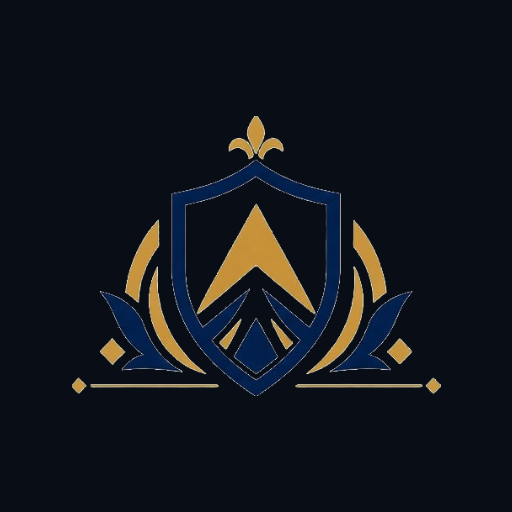
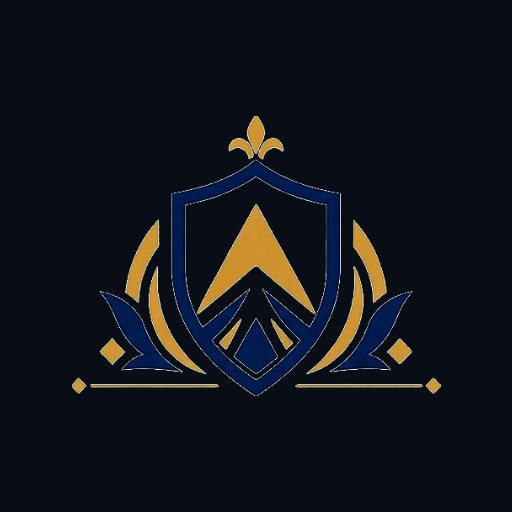
Weave crest navy through the UI as the second identity color
- Sharpen the crest asset (unsharp mask, slight contrast/saturation
  lift) and regenerate favicon and PWA icons from it
- Two-tone ambient backdrop: crest-navy orbs join the gold, navy band
  added to the desktop conic sweep
- Navy-tinted glass bodies for cards, gilt buttons, and the capsule nav
- New identity utilities: .plate-navy icon plates, .chip-navy label
  chips, .track-navy progress/segment tracks
- Applied across the app: hero Music Royalties chip, revenue stream and
  quick action icon plates, home stat tiles, tier Investment Dossier
  chip and seat-progress track, portal amount segmented track, vault
  Portfolio chip, header verification badge in crest navy with gold

Changed region(s): [[0.6562, 0.375, 0.6875, 0.5312]]

diff --git a/src/index.css b/src/index.css
@@ -113,7 +113,7 @@
     border-radius: 1.75rem;
     border: 1px solid transparent;
     background:
-      linear-gradient(180deg, rgba(32, 41, 62, 0.6), rgba(11, 17, 29, 0.72)) padding-box,
+      linear-gradient(180deg, rgba(30, 45, 76, 0.6), rgba(9, 16, 30, 0.74)) padding-box,
       linear-gradient(
           140deg,
           rgba(232, 194, 92, 0.85),
@@ -195,7 +195,7 @@
     border-radius: 0.8rem;
     border: 1.5px solid transparent;
     background:
-      linear-gradient(180deg, rgba(30, 39, 59, 0.88), rgba(9, 14, 24, 0.95)) padding-box,
+      linear-gradient(180deg, rgba(26, 41, 71, 0.88), rgba(7, 13, 25, 0.95)) padding-box,
       linear-gradient(
           115deg,
           #8a6a1e 0%,
@@ -288,7 +288,7 @@
     border-radius: 9999px;
     border: 1.5px solid transparent;
     background:
-      linear-gradient(180deg, rgba(18, 24, 39, 0.8), rgba(8, 12, 22, 0.88)) padding-box,
+      linear-gradient(180deg, rgba(16, 26, 48, 0.82), rgba(7, 12, 23, 0.9)) padding-box,
       linear-gradient(
           115deg,
           #8a6a1e 0%,
@@ -343,6 +343,33 @@
     box-shadow:
       inset 0 1px 0 rgba(246, 231, 180, 0.25),
       0 6px 16px -6px rgba(232, 194, 92, 0.4);
+  }
+
+  /* ── Crest navy identity ─────────────────────────────────────────
+     The logo's second color. Plates carry icons, chips carry labels,
+     tracks sit under gold progress fills. */
+  .plate-navy {
+    background: linear-gradient(160deg, rgba(36, 64, 111, 0.6), rgba(12, 26, 51, 0.92));
+    border: 1px solid rgba(232, 194, 92, 0.35);
+    box-shadow:
+      inset 0 1px 0 rgba(207, 224, 255, 0.18),
+      0 8px 18px -10px rgba(12, 26, 51, 0.9);
+  }
+  .chip-navy {
+    display: inline-flex;
+    align-items: center;
+    gap: 0.5rem;
+    padding: 0.35rem 0.85rem;
+    border-radius: 9999px;
+    font-size: 0.75rem;
+    border: 1px solid rgba(120, 158, 220, 0.4);
+    background: linear-gradient(160deg, rgba(36, 64, 111, 0.55), rgba(12, 26, 51, 0.9));
+    color: #cfe0ff;
+    box-shadow: inset 0 1px 0 rgba(207, 224, 255, 0.16);
+  }
+  .track-navy {
+    background: linear-gradient(180deg, rgba(12, 26, 51, 0.95), rgba(36, 64, 111, 0.45));
+    box-shadow: inset 0 1px 2px rgba(0, 0, 0, 0.6);
   }
 
   .chip {

diff --git a/src/components/Backdrop.tsx b/src/components/Backdrop.tsx
@@ -19,7 +19,7 @@ export function Backdrop() {
 
   return (
     <div aria-hidden className="pointer-events-none fixed inset-0 z-0 overflow-hidden">
-      <div className="absolute inset-0 bg-[radial-gradient(ellipse_at_top,_rgba(179,144,47,0.10),_transparent_55%)]" />
+      <div className="absolute inset-0 bg-[radial-gradient(ellipse_at_top,_rgba(179,144,47,0.1),_transparent_55%)]" />
 
       <motion.div
         className="absolute -left-40 top-10 h-[24rem] w-[24rem] rounded-full bg-[radial-gradient(circle,_rgba(201,162,39,0.18),_transparent_60%)] blur-2xl md:h-[34rem] md:w-[34rem] md:blur-3xl"
@@ -27,9 +27,14 @@ export function Backdrop() {
         transition={{ duration: 22, repeat: Infinity, ease: "easeInOut" }}
       />
       <motion.div
-        className="absolute -right-40 top-1/3 h-[22rem] w-[22rem] rounded-full bg-[radial-gradient(circle,_rgba(244,227,172,0.12),_transparent_60%)] blur-2xl md:h-[32rem] md:w-[32rem] md:blur-3xl"
+        className="absolute -right-40 top-1/3 h-[22rem] w-[22rem] rounded-full bg-[radial-gradient(circle,_rgba(36,64,111,0.28),_transparent_62%)] blur-2xl md:h-[32rem] md:w-[32rem] md:blur-3xl"
         animate={mobile ? undefined : { x: [0, -100, 0], y: [0, 60, 0] }}
         transition={{ duration: 26, repeat: Infinity, ease: "easeInOut" }}
+      />
+      <motion.div
+        className="absolute bottom-[-8rem] left-1/4 h-[20rem] w-[20rem] rounded-full bg-[radial-gradient(circle,_rgba(36,64,111,0.22),_transparent_60%)] blur-2xl md:h-[28rem] md:w-[28rem] md:blur-3xl"
+        animate={mobile ? undefined : { x: [0, 80, 0], y: [0, -50, 0] }}
+        transition={{ duration: 30, repeat: Infinity, ease: "easeInOut" }}
       />
 
       {!mobile && (
@@ -37,7 +42,7 @@ export function Backdrop() {
           className="absolute left-1/2 top-1/2 h-[60rem] w-[60rem] -translate-x-1/2 -translate-y-1/2 rounded-full opacity-[0.05]"
           style={{
             background:
-              "conic-gradient(from 0deg, transparent, #B3902F, transparent, #F4E3AC, transparent)",
+              "conic-gradient(from 0deg, transparent, #B3902F, transparent, #24406F, transparent, #F4E3AC, transparent)",
           }}
           animate={{ rotate: 360 }}
           transition={{ duration: 90, repeat: Infinity, ease: "linear" }}

diff --git a/src/routes/index.tsx b/src/routes/index.tsx
@@ -40,7 +40,7 @@ import { useBalancePulse } from "@/hooks/useBalancePulse";
 /** Small labelled figure used in the portfolio card. */
 function Stat({ label, value }: { label: string; value: number }) {
   return (
-    <div className="embossed min-w-0 rounded-xl border border-border/60 bg-black/30 p-3">
+    <div className="track-navy min-w-0 rounded-xl border border-[#24406f]/45 p-3">
       <p className="text-[10px] uppercase tracking-wider text-muted-foreground">{label}</p>
       <p className="font-numeric mt-1 truncate text-lg">${value.toLocaleString()}</p>
     </div>
@@ -86,7 +86,7 @@ export default function Home() {
                       <ShieldCheck className="h-3.5 w-3.5" strokeWidth={1.9} />
                       Private Placement
                     </span>
-                    <span className="chip">
+                    <span className="chip-navy uppercase tracking-widest">
                       <AudioLines className="h-3 w-3 text-primary" strokeWidth={1.9} />
                       Music Royalties
                     </span>
@@ -180,7 +180,7 @@ export default function Home() {
                     to={to}
                     className="group flex flex-col items-center gap-2 rounded-2xl border border-primary/25 bg-black/40 py-4 backdrop-blur-xl transition-all hover:border-primary/55 hover:bg-black/55"
                   >
-                    <span className="grid h-10 w-10 place-items-center rounded-xl border border-primary/30 bg-primary/10 text-primary transition-transform group-hover:scale-105">
+                    <span className="plate-navy grid h-10 w-10 place-items-center rounded-xl text-primary transition-transform group-hover:scale-105">
                       <Icon className="h-5 w-5" strokeWidth={1.8} />
                     </span>
                     <span className="text-xs font-semibold tracking-wide text-white/90">

diff --git a/src/routes/packages.tsx b/src/routes/packages.tsx
@@ -49,7 +49,7 @@ export default function Packages() {
         <main className="mx-auto max-w-2xl px-5 py-6">
           <header className="mb-6">
             <div className="gold-ribbon-hr mb-4 !w-24" />
-            <span className="chip">Investment Dossier</span>
+            <span className="chip-navy uppercase tracking-widest">Investment Dossier</span>
             <h1 className="mt-3 font-display text-4xl">
               Choose Your <em className="not-italic text-gradient-gold">Tier</em>
             </h1>
@@ -201,10 +201,7 @@ function SpotsBar({ pct, isFull }: { pct: number; isFull: boolean }) {
   const ref = useRef<HTMLDivElement>(null);
   const inView = useInView(ref, { once: true, margin: "-10% 0px" });
   return (
-    <div
-      ref={ref}
-      className="embossed relative mt-2 h-1.5 overflow-hidden rounded-full bg-black/40"
-    >
+    <div ref={ref} className="track-navy relative mt-2 h-1.5 overflow-hidden rounded-full">
       <motion.div
         className="h-full rounded-full"
         initial={{ width: 0 }}

diff --git a/src/components/RevenueStreams.tsx b/src/components/RevenueStreams.tsx
@@ -39,7 +39,7 @@ export function RevenueStreams() {
             transition={{ duration: 0.45, delay: 0.04 * i, ease: [0.22, 1, 0.36, 1] }}
             className="group flex items-start gap-3 rounded-2xl border border-border/60 bg-black/40 p-3.5 text-left transition-colors hover:border-primary/40 hover:bg-black/60"
           >
-            <span className="grid h-9 w-9 shrink-0 place-items-center rounded-xl border border-primary/25 bg-primary/10 text-primary transition-transform group-hover:scale-105">
+            <span className="plate-navy grid h-9 w-9 shrink-0 place-items-center rounded-xl text-primary transition-transform group-hover:scale-105">
               <Icon className="h-[18px] w-[18px]" strokeWidth={1.7} />
             </span>
             <div className="min-w-0">

diff --git a/src/routes/portal.tsx b/src/routes/portal.tsx
@@ -212,7 +212,7 @@ export default function Portal() {
                   <Upload className="h-4 w-4 text-primary" /> Pull Earnings
                 </div>
 
-                <div className="embossed mt-4 grid grid-cols-2 gap-2 rounded-2xl border border-border/60 bg-black/40 p-1">
+                <div className="track-navy mt-4 grid grid-cols-2 gap-2 rounded-2xl border border-[#24406f]/50 p-1">
                   {(["USD", "BTC"] as const).map((m) => (
                     <button
                       key={m}

diff --git a/src/components/SiteHeader.tsx b/src/components/SiteHeader.tsx
@@ -33,7 +33,7 @@ export function SiteHeader({ showUser = true }: SiteHeaderProps) {
                 {BRAND_NAME.toUpperCase()}
               </span>
               <BadgeCheck
-                className="h-3.5 w-3.5 fill-primary text-[#1a1305] sm:h-4 sm:w-4"
+                className="h-3.5 w-3.5 fill-[#24406f] text-[#e8c25c] sm:h-4 sm:w-4"
                 strokeWidth={2.5}
               />
             </span>

diff --git a/src/routes/portfolio.tsx b/src/routes/portfolio.tsx
@@ -55,7 +55,7 @@ export default function Portfolio() {
             <StaggerItem>
               <header className="flex items-end justify-between gap-3">
                 <div>
-                  <p className="chip">
+                  <p className="chip-navy uppercase tracking-widest">
                     <Crown className="h-3 w-3 text-primary" />
                     Portfolio
                   </p>
